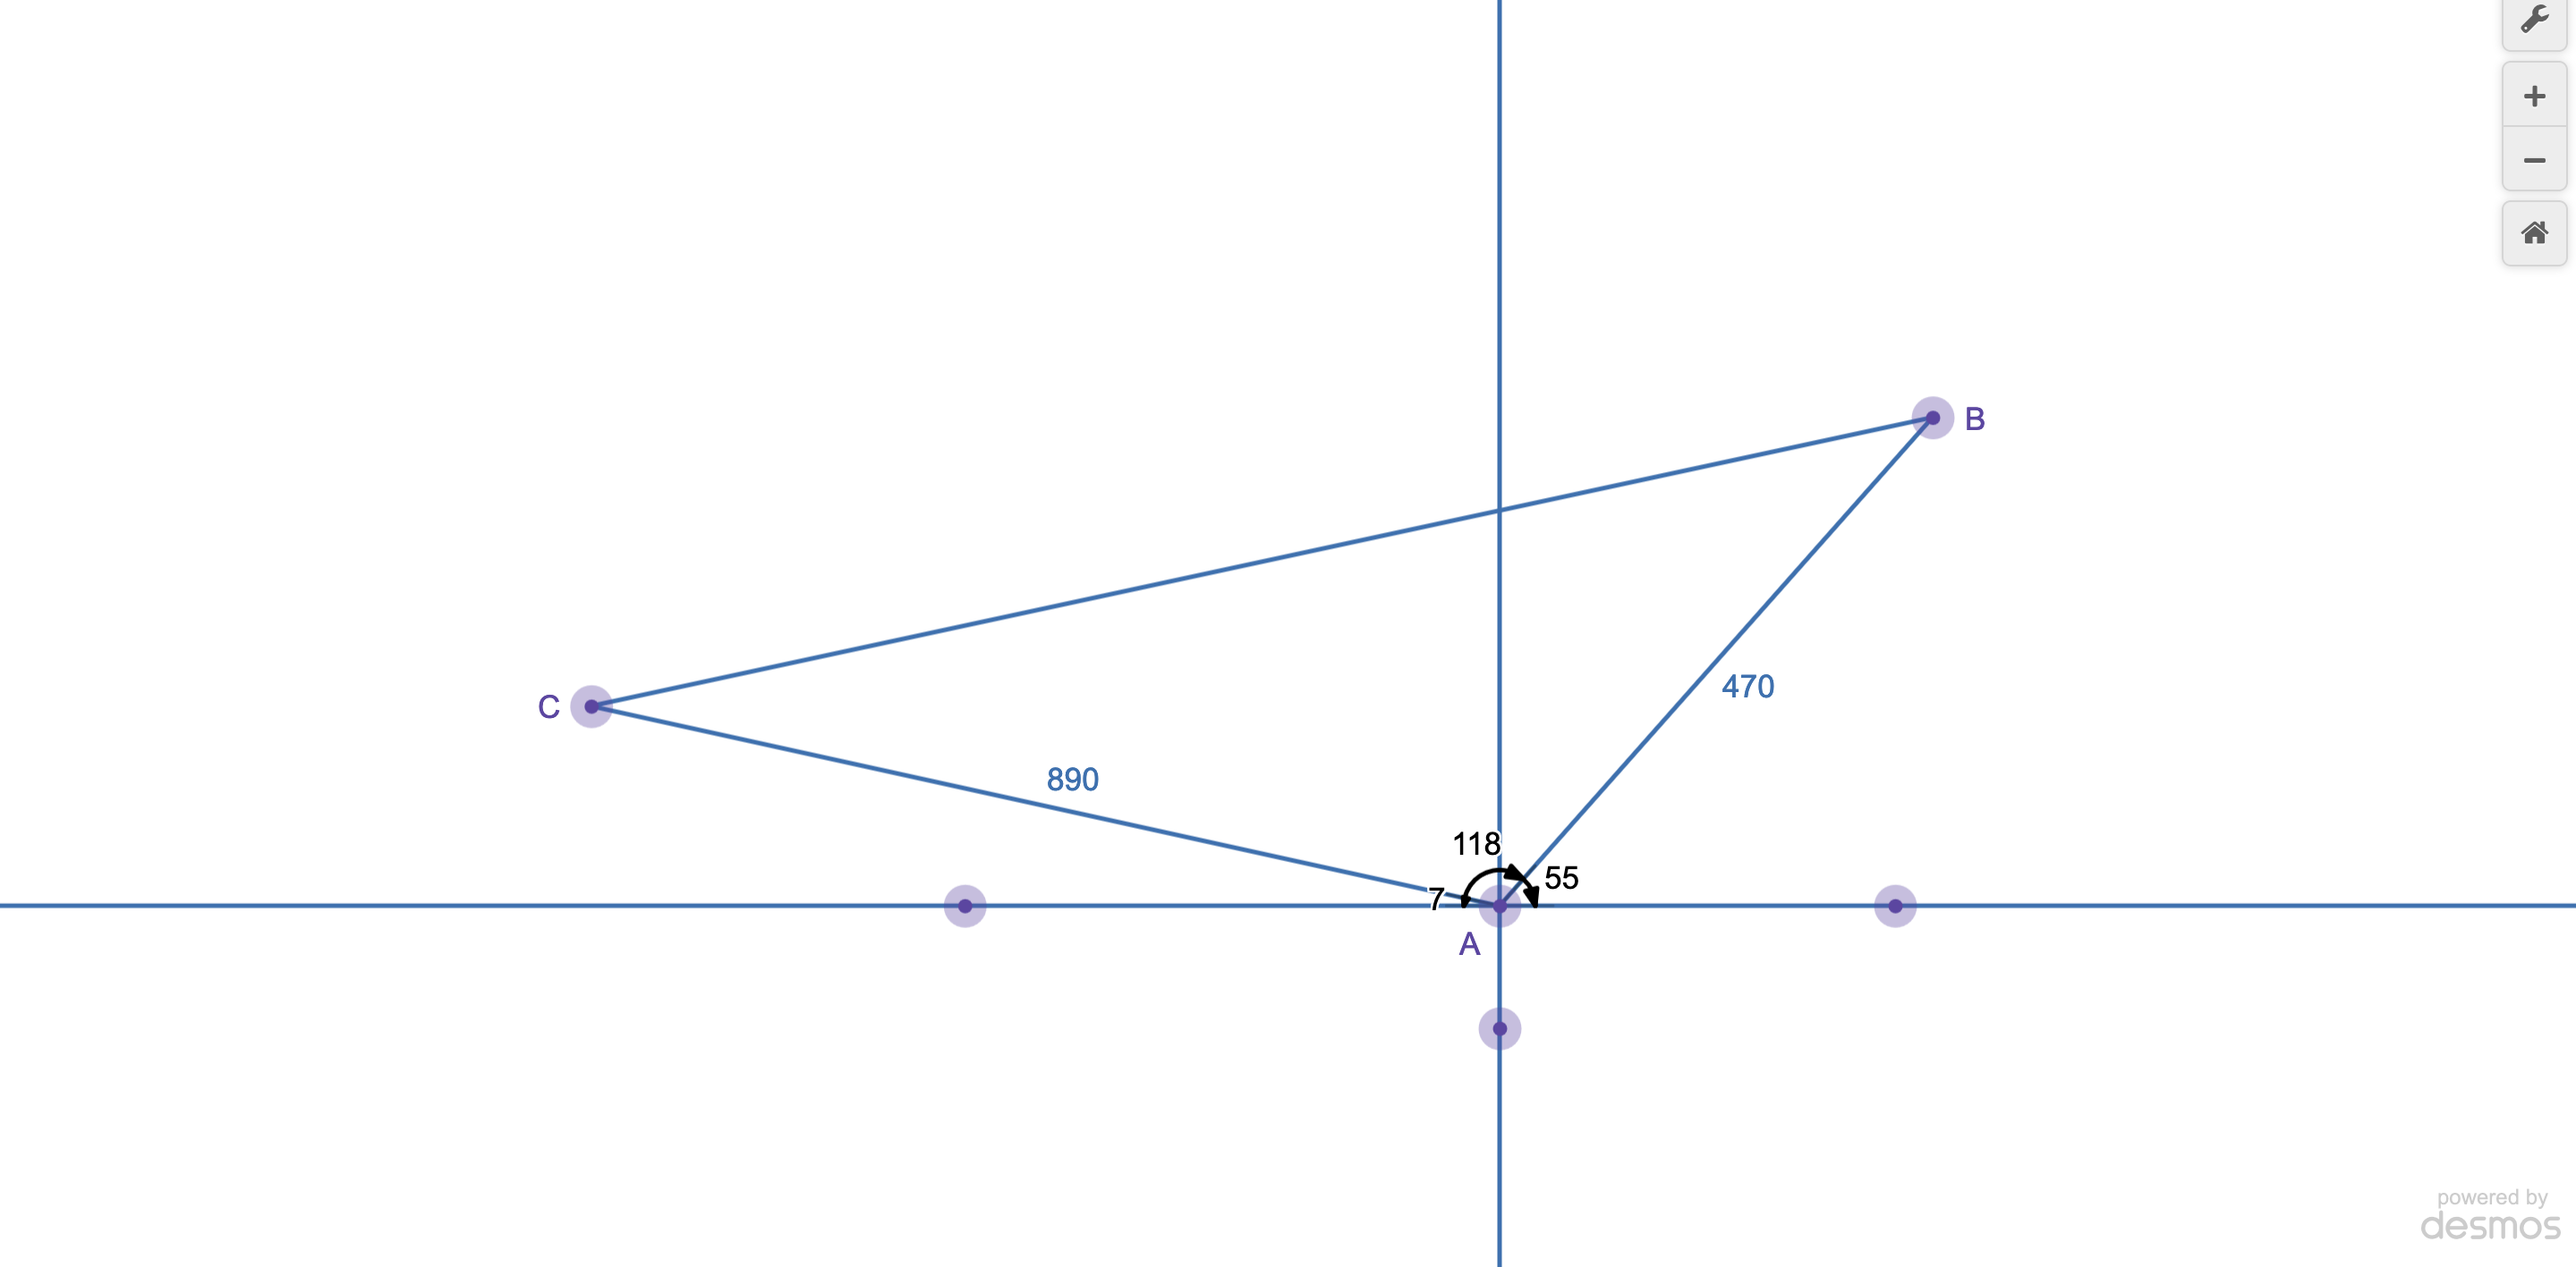
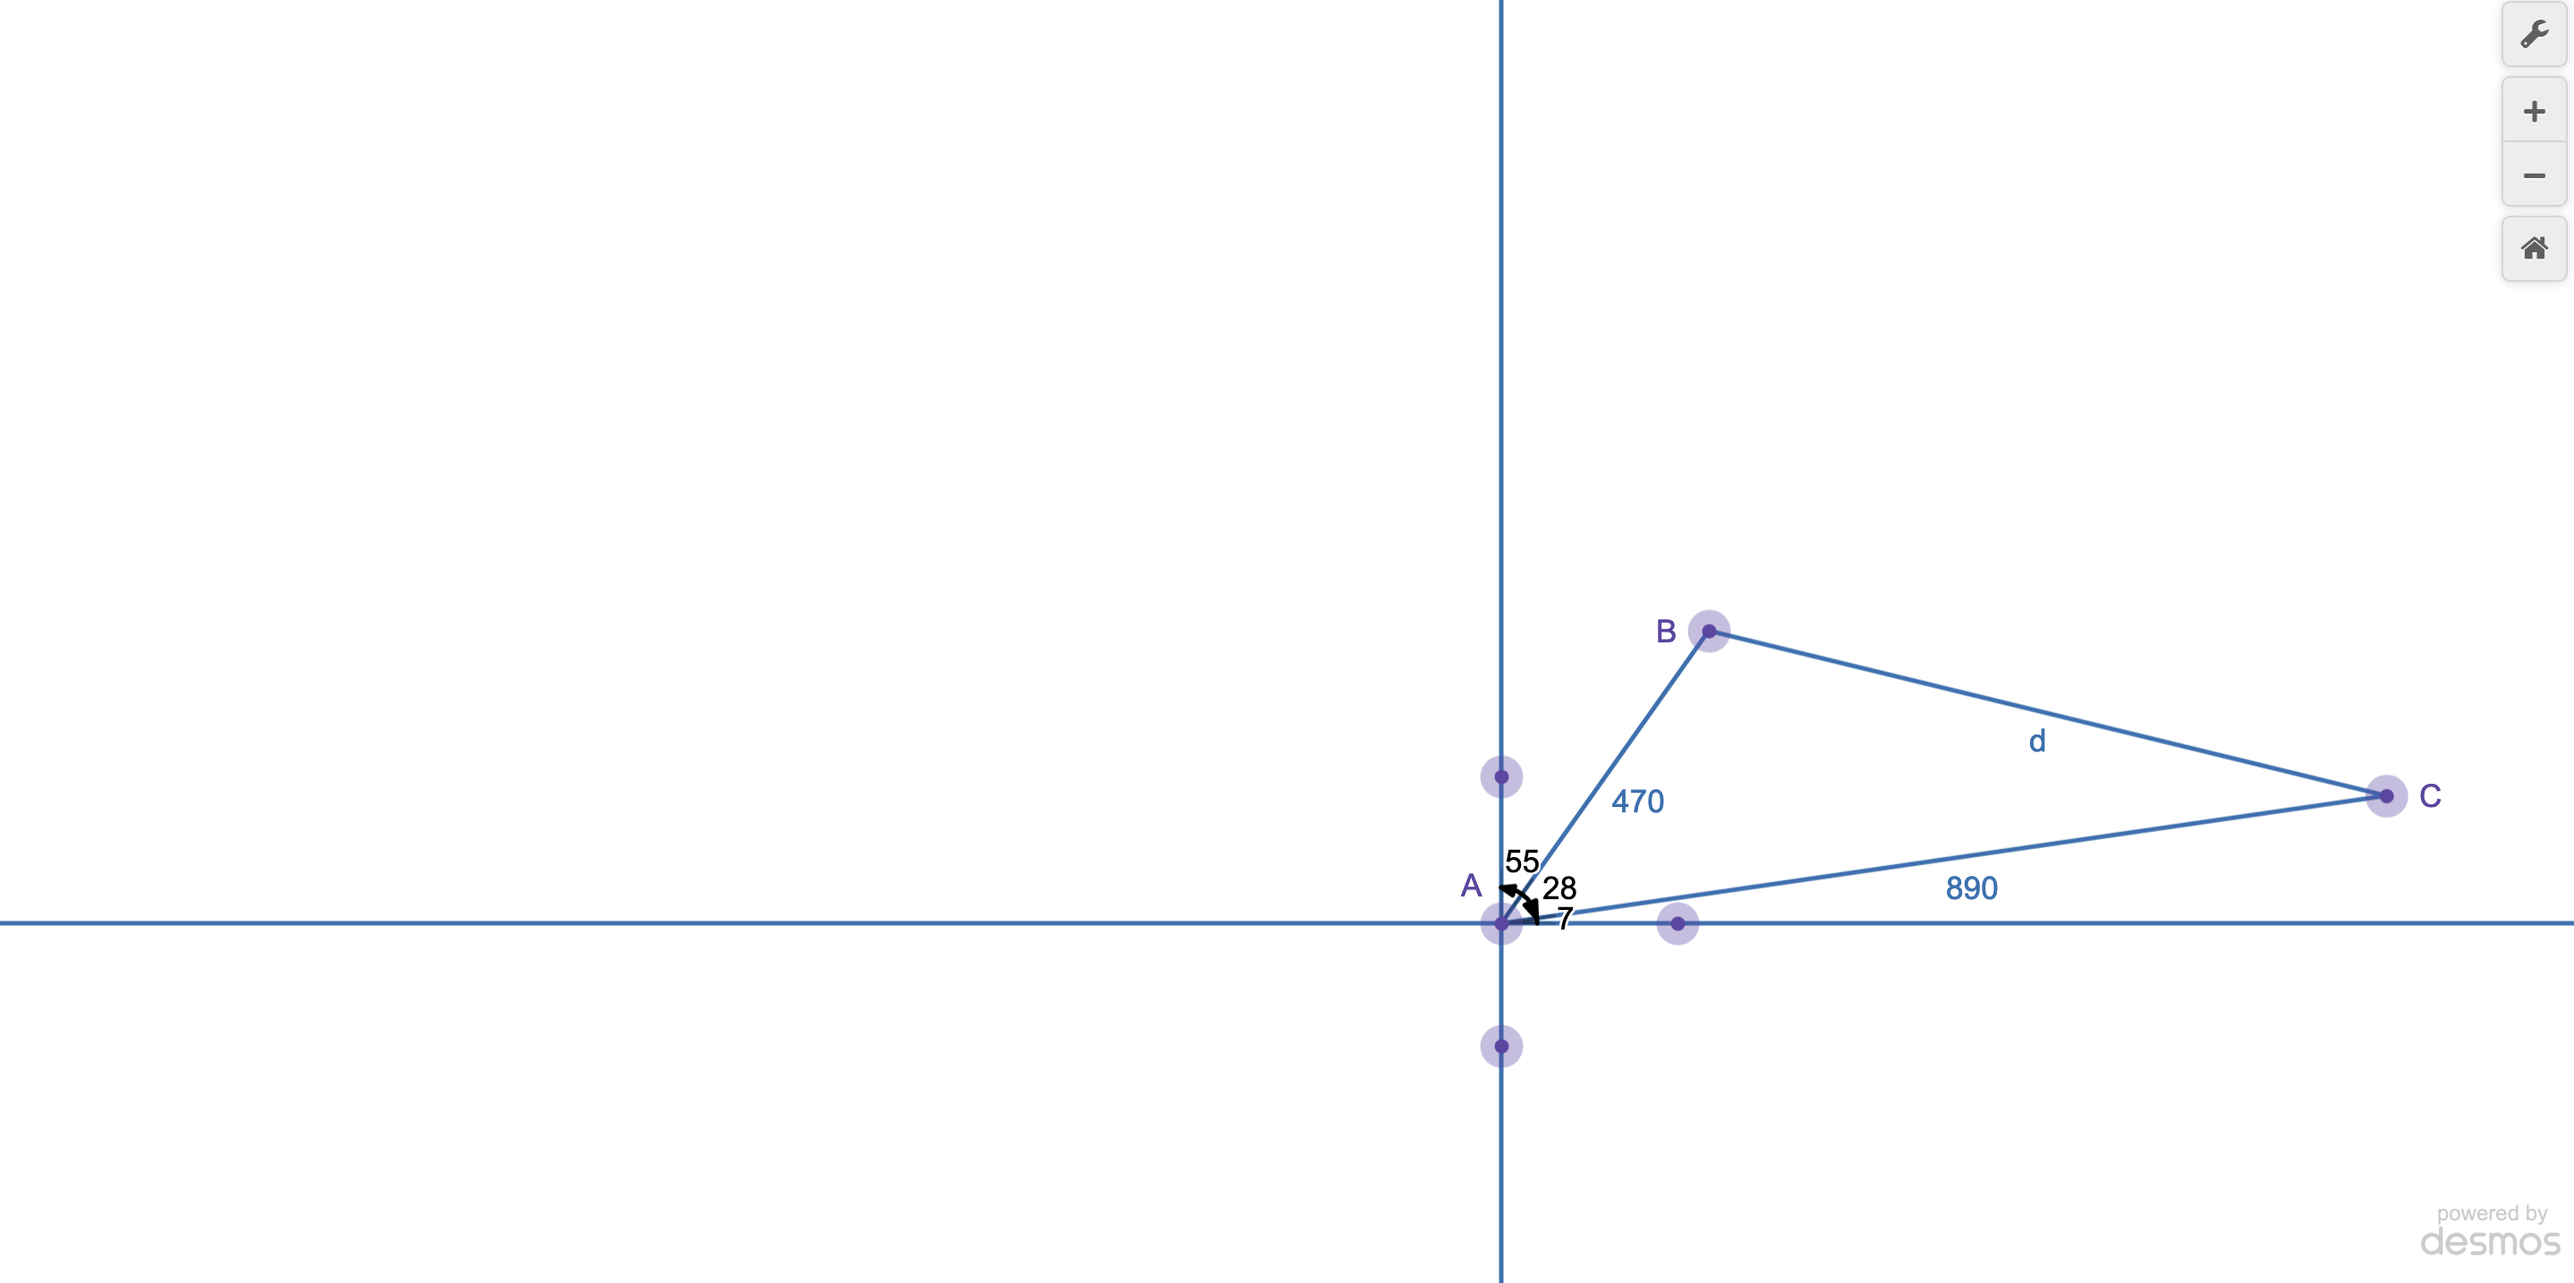
checked 9.6

diff --git a/chapter9/9.6.tex b/chapter9/9.6.tex
@@ -101,9 +101,9 @@ and thus by the law of sines
 \[ \frac{\sin A}{a}=\frac{\sin B}{b} \]
 \[ \frac{\sin A}{29}=\frac{\sin 63^\circ}{35.84} \]
 \[ \sin A=\frac{29\sin 63^\circ}{35.84} \]
-\[ A\approx 0.72 \]
-and thus $C\approx 180^\circ-(0.72^\circ+63^\circ)=116.28^\circ$. Hence
-$A\approx 0.72^\circ,b\approx 35.84,$ and $C\approx 116.28^\circ$.
+\[ A\approx 46.13 \]
+and thus $C\approx 180^\circ-(46.13^\circ+63^\circ)=70.87^\circ$. Hence
+$A\approx 0.72^\circ,b\approx 35.84,$ and $C\approx 70.87^\circ$.
 
 \section*{17}
 By the law of cosines, we know that
@@ -112,7 +112,7 @@ By the law of cosines, we know that
 \[ A\approx 42.60^\circ \]
 Again by the law of cosines, we know that
 \[ \cos B=\dfrac{a^2+c^2-b^2}{2ac} \]
-\[ \cos B=\drac{10^2+12^2-3^2}{2(10)(12)} \]
+\[ \cos B=\dfrac{10^2+12^2-3^2}{2(10)(12)} \]
 \[ B\approx 11.72^\circ \] 
 and thus $C\approx 180^\circ-(42.60^\circ+11.72^\circ)=125.68^\circ$. Hence
 $A\approx 42.60^\circ,B\approx 11.72^\circ,$ and $C\approx 125.68^\circ$.
@@ -150,8 +150,8 @@ By the law of cosines, we know that
 and thus the answer is D.
 
 \section*{23}
-We know that the semiperimeter is $\frac{1}{2}(49+48+47)=72$ meaning the area is
-\[ \sqrt{72(72-47)(72-58)(72-49)}\approx 761.31 \] units squared.
+We know that the semiperimeter is $\frac{1}{2}(49+58+47)=77$ meaning the area is
+\[ \sqrt{77(77-47)(77-58)(77-49)}\approx 1108.57 \] units squared.
 
 \section*{31}
 We know that the semiperimeter is $\frac{1}{2}(51+51+43)=72.5$ meaning the area is
@@ -167,20 +167,22 @@ Consider some equilateral triangle with sides $a,b,$ and $c$. Thus $a=b=c$. By t
 \[ \cos A=\frac{a^2+a^2-a^2}{2a^2} \]
 \[ \cos A=\frac{a^2}{2a^2} \]
 \[ \cos A=\frac{1}{2} \]
-\[ A=60^\circ \] similar reasoning can be used to show that $B=C=60^\circ$.
+\[ A=60^\circ \] Similar reasoning can be used to show that $B=C=60^\circ$.
 
 \section*{42}
-Consider the following diagram, showing a triangle with sides $a,b,$ and $c$ and with height $h$. We know that $a^2=h^2+(b-d)^2$ and $h^2=c^2-d^2$. But also 
+Consider the following diagram, showing a triangle with sides $a,b,$ and $c$ and with height $h$:
+\newline\includegraphics[width = 4in]{42}\newline
+We know that $a^2=h^2+(b-d)^2$ and $h^2=c^2-d^2$. But also 
 $d=c\cos A$. Thus $h^2=c^2-(c\cos A)^2$, meaning
 \[ a^2=c^2-(c\cos A)^2+(b-c\cos A)^2 \]
-\[ =c^2-c^2\cos^2 A+b^2+c^2\cos A-2bc\cos A \]
+\[ =c^2-c^2\cos^2 A+b^2+c^2\cos^2 A-2bc\cos A \]
 \[ =b^2+c^2-2bc\cos A \] thus proving the law of cosines for $a$. The cases for $b$ and $c$ use similar reasoning.
 
 \section*{43}
 Let $C$ be the angle $\theta$. Let $a$ be the side on the triangle to the left of $C$, and $b$ be the side to the right of it. Now, because the trapeze artists swing with a fixed radius, 
-$a=17$ and $b=13$. Thus we can find $\theta$ by using the law of cosines:
+$a=12+5=17$ and $b=8+5=13$. Thus we can find $\theta$ by using the law of cosines:
 \[ \cos C=\frac{a^2+b^2-c^2}{2ab} \]
-\[ \cos C=\rac{17^2+13^2-26^2}{2(17)(13)} \]
+\[ \cos C=\frac{17^2+13^2-26^2}{2(17)(13)} \]
 \[ C\approx 119.55^\circ \]
 
 \section*{46}
@@ -201,7 +203,7 @@ $60^\circ$, where the third side is the distance $d$ between the two hikers afte
 
 
 (b): We need to find what times $t$ are such that the distance between the two hikers is greater than $10$ miles. We know that the first hiker travels $2t$ miles in $t$ hours, while the 
-second hiker travels $3t$ miles in $t$ hours. Thus the distance between the two hikers after $t$ hours is
+second hiker travels $3t$ miles in $t$ hours. Thus the distance between the two hikers after $t$ hours is (by the law of cosines)
 \[ d=\sqrt{(2t)^2+(3t)^2-2(2t)(3t)\cos 60^\circ} \]
 We need to solve the equation:
 \[ \sqrt{(2t)^2+(3t)^2-2(2t)(3t)\cos 60^\circ}>10 \]
@@ -209,7 +211,7 @@ We need to solve the equation:
 \[ 4t^2+9t^2-12t^2\cos 60^\circ>100 \]
 \[ 13t^2-6t^2>100\textrm{ (Because $\cos 60^\circ=\frac{1}{2}$)} \]
 \[ 7t^2>100 \]
-\[ t>\frac{10}{\sqrt{7}}=\frac{10\sqrt{7}}{7}\wedge t<-\frac{10}{\sqrt{7}}=-\frac{10\sqrt{7}}{7} \]
+\[ t>\frac{10}{\sqrt{7}}=\frac{10\sqrt{7}}{7}\vee t<-\frac{10}{\sqrt{7}}=-\frac{10\sqrt{7}}{7} \]
 and because we are only interested in positive values of $t$, $t>\frac{10\sqrt{7}}{7}$. Thus the hikers become out of range after 
 $\frac{10\sqrt{7}}{7}$ hours.
 
@@ -225,9 +227,9 @@ Thus the hiker should walk northwest at an angle of about $40.897^\circ$.
 
 \section*{48}
 The following diagram represents this situation:\newline
-
+\includegraphics[width = 4in]{48}\newline
 We can use the law of cosines to find the distance $d$ between B and C:
-\[ d=\sqrt{890^2+470^2-2(890)(470)\cos 118^\circ} \]
-\[ d\approx 1185.65 \] miles.
+\[ d=\sqrt{890^2+470^2-2(890)(470)\cos 28^\circ} \]
+\[ d\approx 523.76 \] miles.
 
 \end{document}
